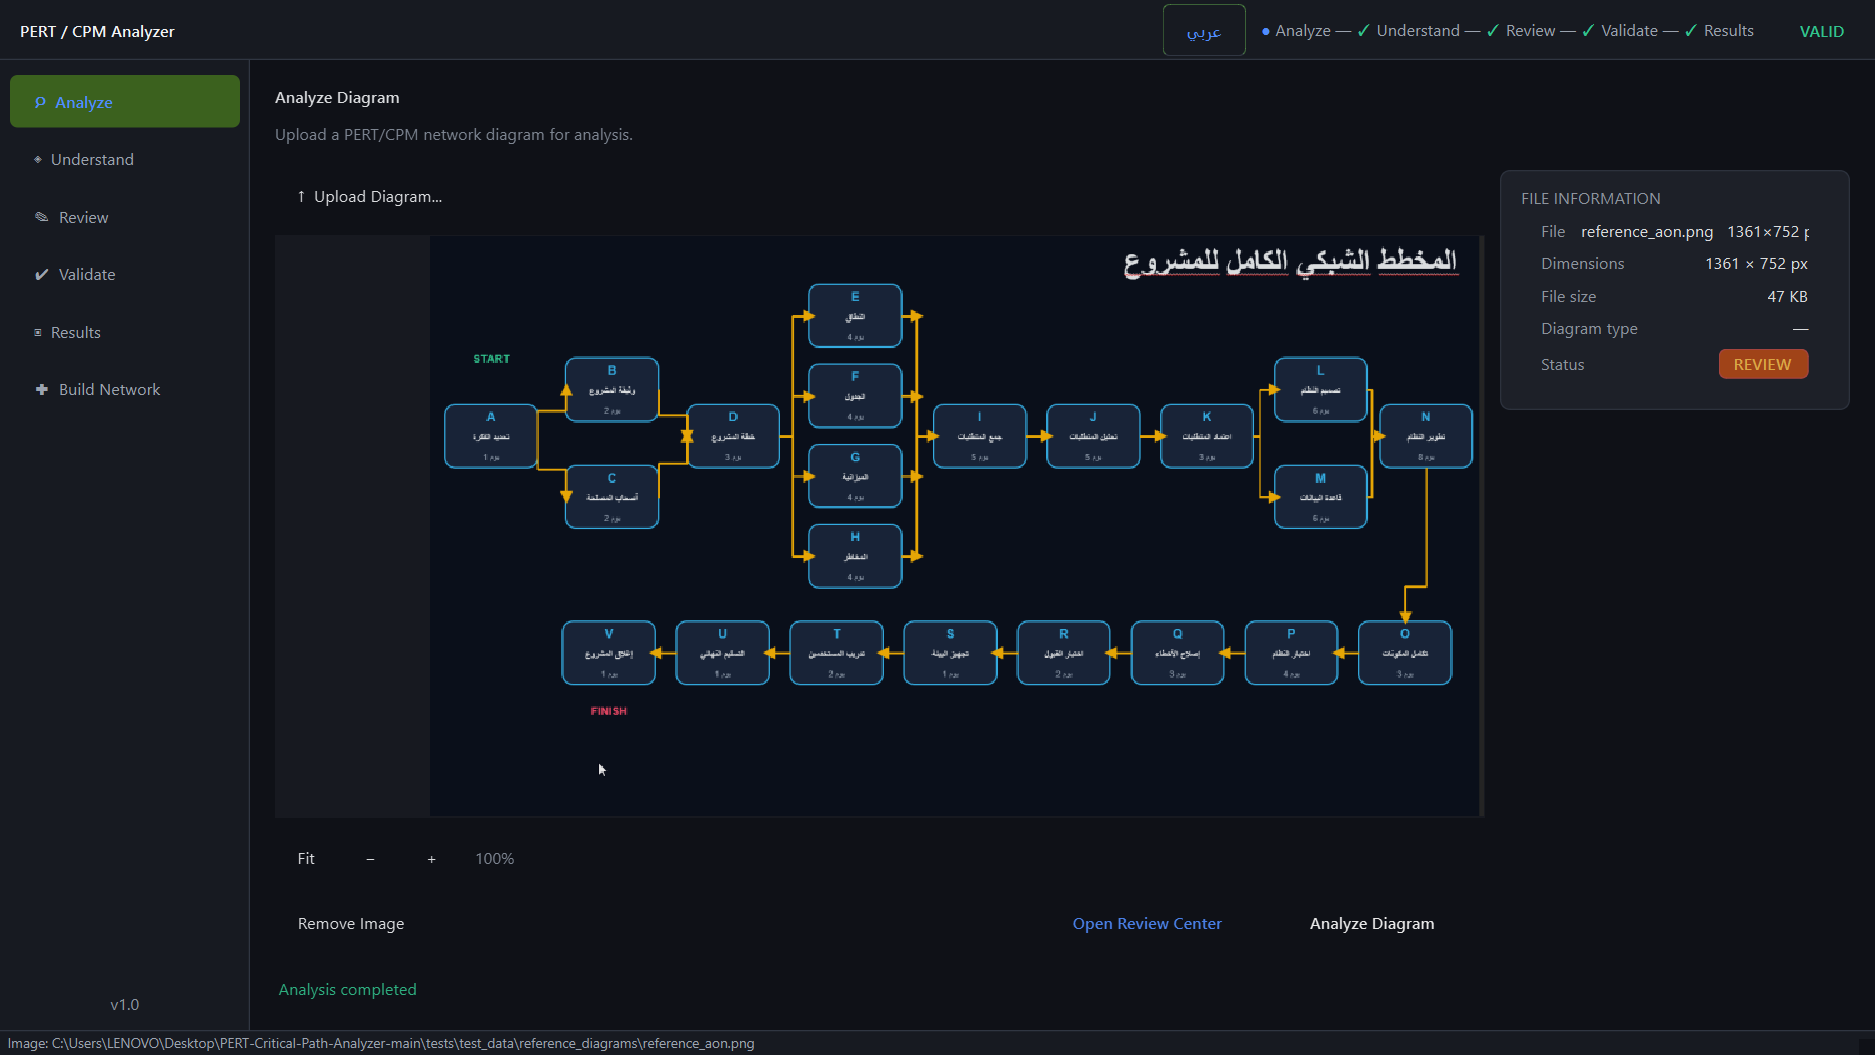
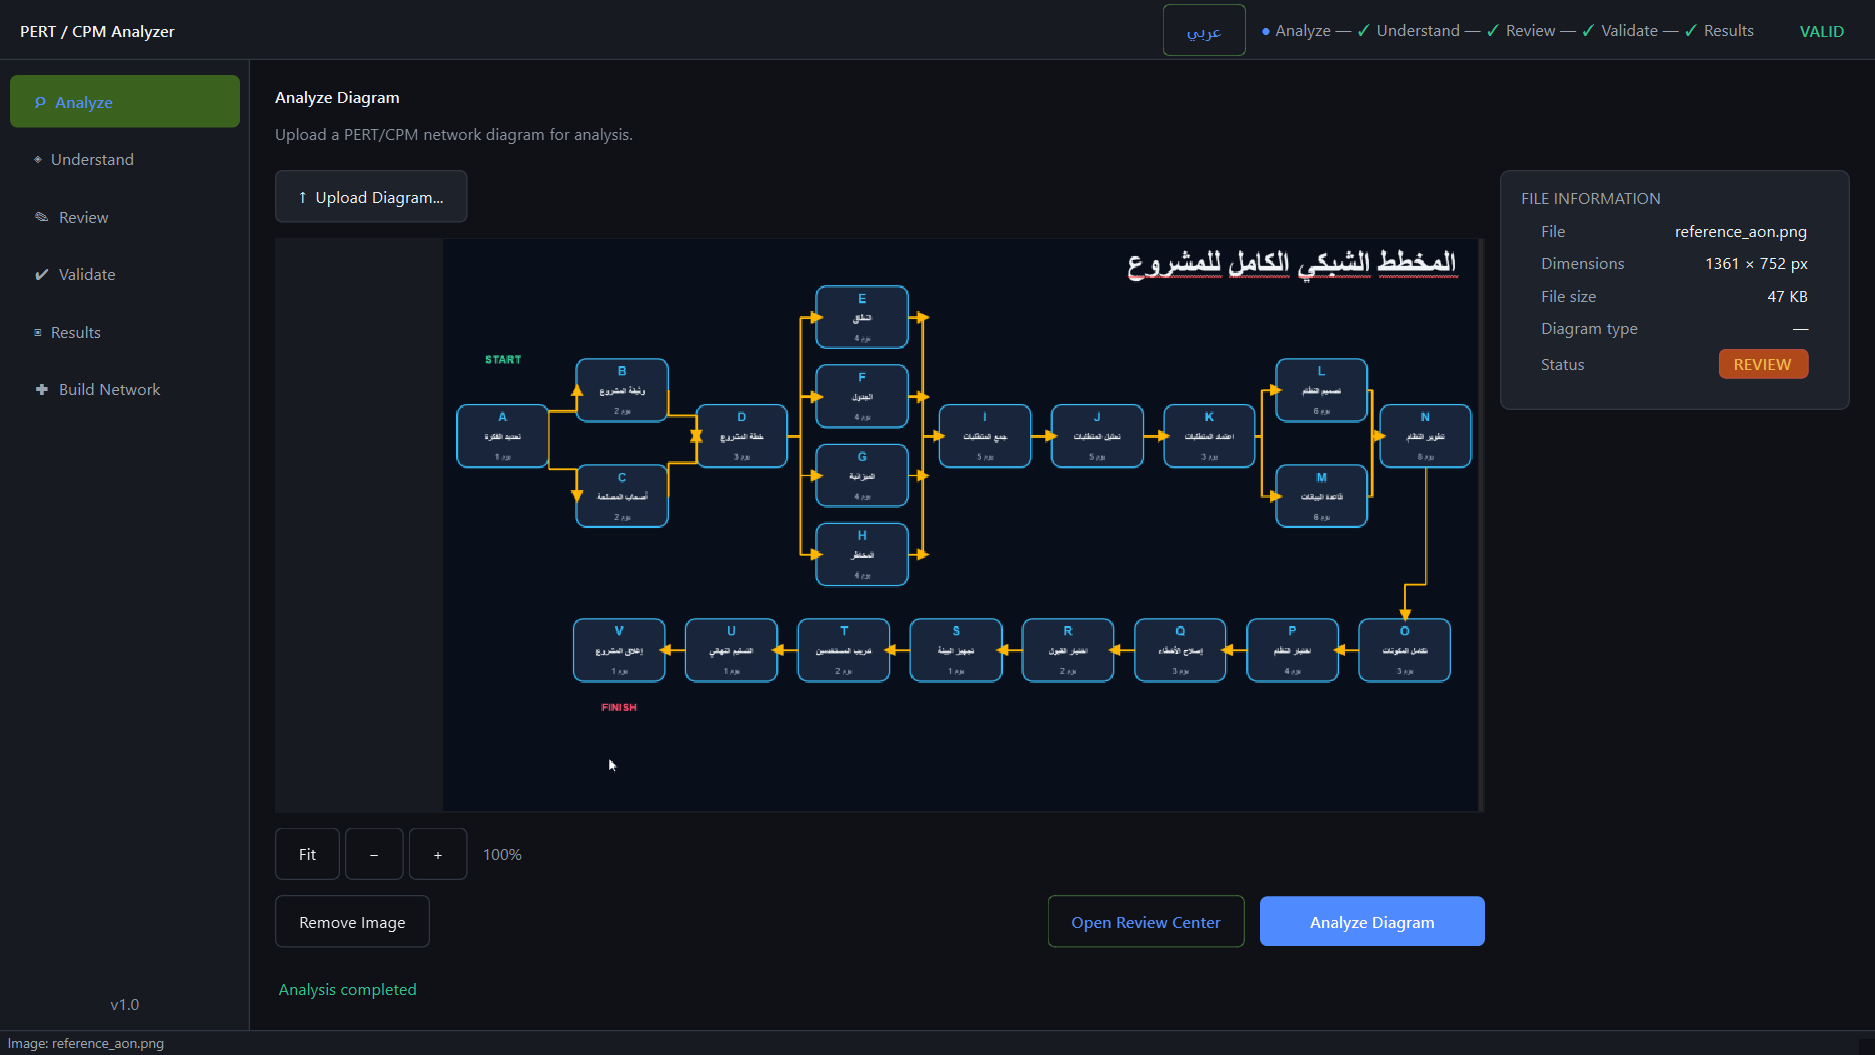
batch 1: scope container stylesheets (buttons render app-wide), dedupe file-info dims, status bar basename

diff --git a/pert_analyzer/gui/pages/analysis_page.py b/pert_analyzer/gui/pages/analysis_page.py
@@ -465,7 +465,8 @@ class StatusPanel(QWidget):
 def _info_card_row(label: str, value: QLabel) -> QWidget:
     """A single label/value row inside an info card."""
     row = QWidget()
-    row.setStyleSheet("background: transparent; border: none;")
+    row.setObjectName("infoRow")
+    row.setStyleSheet("QWidget#infoRow { background: transparent; border: none; }")
     rl = QHBoxLayout(row)
     rl.setContentsMargins(0, 0, 0, 0)
     rl.setSpacing(MD)
@@ -524,8 +525,15 @@ class AnalysisPage(QWidget):
         page.addSpacing(SM)
 
         # body: preview left, info panel right
+        # NOTE: plain-declaration stylesheets (no selector) on a container
+        # cascade to ALL descendants, wiping their backgrounds/borders — that
+        # is what flattened every button on this page. Scope everything to the
+        # widget itself so app-level QSS buttons render correctly.
         body = QWidget()
-        body.setStyleSheet("background: transparent; border: none;")
+        body.setObjectName("analysisBody")
+        body.setStyleSheet(
+            "QWidget#analysisBody { background: transparent; border: none; }"
+        )
         body_layout = QHBoxLayout(body)
         body_layout.setContentsMargins(0, 0, 0, 0)
         body_layout.setSpacing(MD)
@@ -622,13 +630,18 @@ class AnalysisPage(QWidget):
         info_layout.addWidget(_info_card_row("Diagram type", self._diagram_type_value))
 
         status_row = QWidget()
-        status_row.setStyleSheet("background: transparent; border: none;")
+        status_row.setObjectName("statusRow")
+        status_row.setStyleSheet(
+            "QWidget#statusRow { background: transparent; border: none; }"
+        )
         sr = QHBoxLayout(status_row)
         sr.setContentsMargins(0, 0, 0, 0)
         sr.setSpacing(MD)
         cap = QLabel("Status")
         cap.setFont(QFont(*BODY_SMALL_FONT))
-        cap.setStyleSheet(f"color: {TEXT_SECONDARY};")
+        cap.setStyleSheet(
+            f"color: {TEXT_SECONDARY}; background: transparent; border: none;"
+        )
         sr.addWidget(cap)
         sr.addStretch()
         self._status_badge = QLabel("READY")
@@ -642,7 +655,10 @@ class AnalysisPage(QWidget):
 
         info_group = QWidget()
         info_group.setLayout(info_layout)
-        info_group.setStyleSheet("background: transparent; border: none;")
+        info_group.setObjectName("infoGroup")
+        info_group.setStyleSheet(
+            "QWidget#infoGroup { background: transparent; border: none; }"
+        )
         info_card.layout().addWidget(info_group)
         right_layout.addWidget(info_card)
 
@@ -824,7 +840,7 @@ class AnalysisPage(QWidget):
         self._image_path = path
         self._image_dims = (w, h)
         size_kb = os.path.getsize(path) // 1024
-        self._file_info.setText(f"{os.path.basename(path)}   {w}\u00d7{h} px")
+        self._file_info.setText(f"{os.path.basename(path)}")
         self._file_info.setToolTip(path)
         self._dims_value.setText(f"{w} \u00d7 {h} px")
         self._size_value.setText(f"{size_kb} KB")

diff --git a/pert_analyzer/gui/main_window.py b/pert_analyzer/gui/main_window.py
@@ -5,6 +5,7 @@ Main application window: header + sidebar navigation + QStackedWidget + status b
 from __future__ import annotations
 
 import logging
+from pathlib import Path
 from typing import Any, Callable, Optional
 
 from PySide6.QtCore import QEasingCurve, QPropertyAnimation, Qt
@@ -144,7 +145,8 @@ class MainWindow(QMainWindow):
         header.setObjectName("appHeader")
         header.setFixedHeight(HEADER_HEIGHT)
         header.setStyleSheet(
-            f"background-color: {SURFACE}; border-bottom: 1px solid {BORDER};"
+            f"QWidget#appHeader {{ background-color: {SURFACE};"
+            f" border-bottom: 1px solid {BORDER}; }}"
         )
         hdr_layout = QHBoxLayout(header)
         hdr_layout.setContentsMargins(LG, 0, XXL, 0)
@@ -193,8 +195,8 @@ class MainWindow(QMainWindow):
         sidebar.setObjectName("appSidebar")
         sidebar.setFixedWidth(SIDEBAR_WIDTH)
         sidebar.setStyleSheet(
-            f"background-color: {SURFACE};"
-            f" border-right: 1px solid {BORDER};"
+            f"QWidget#appSidebar {{ background-color: {SURFACE};"
+            f" border-right: 1px solid {BORDER}; }}"
         )
         sb_layout = QVBoxLayout(sidebar)
         sb_layout.setContentsMargins(SM, MD, SM, MD)
@@ -234,9 +236,14 @@ class MainWindow(QMainWindow):
         body_layout.addWidget(sidebar)
 
         # ── Stacked pages ─────────────────────────────────────
+        # Plain (selector-less) declarations on a container cascade to every
+        # descendant — this flattened every button on every page before being
+        # scoped to the container itself.
         content = QWidget()
         content.setObjectName("mainContent")
-        content.setStyleSheet("background: transparent; border: none;")
+        content.setStyleSheet(
+            "QWidget#mainContent { background: transparent; border: none; }"
+        )
         content_layout = QVBoxLayout(content)
         content_layout.setContentsMargins(0, 0, 0, 0)
         content_layout.setSpacing(0)
@@ -481,7 +488,7 @@ class MainWindow(QMainWindow):
         self._session.set_image(path)
         self._analysis_page.set_state(self._session.state.value)
         self._refresh_pages()
-        self.statusBar().showMessage(f"Image: {path}")
+        self.statusBar().showMessage(f"Image: {Path(path).name}")
 
     def _on_image_removed(self) -> None:
         if not self._confirm_discard():
